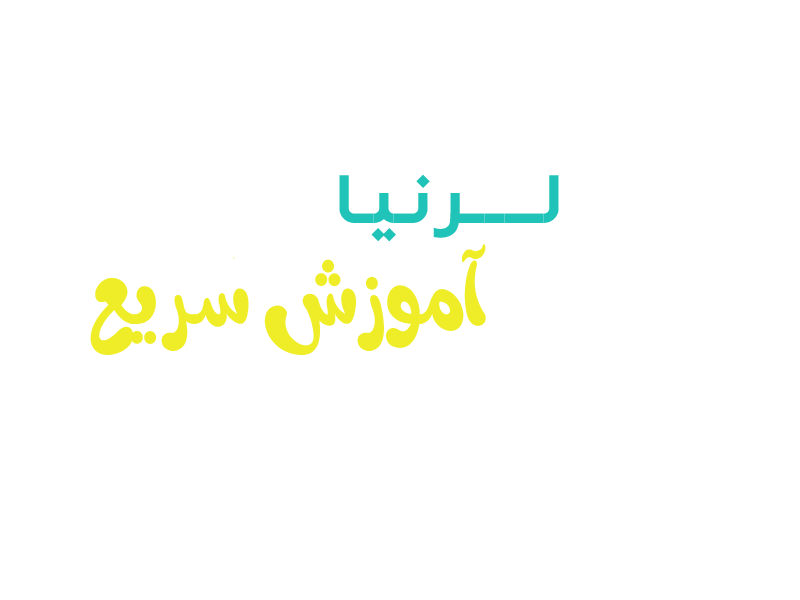
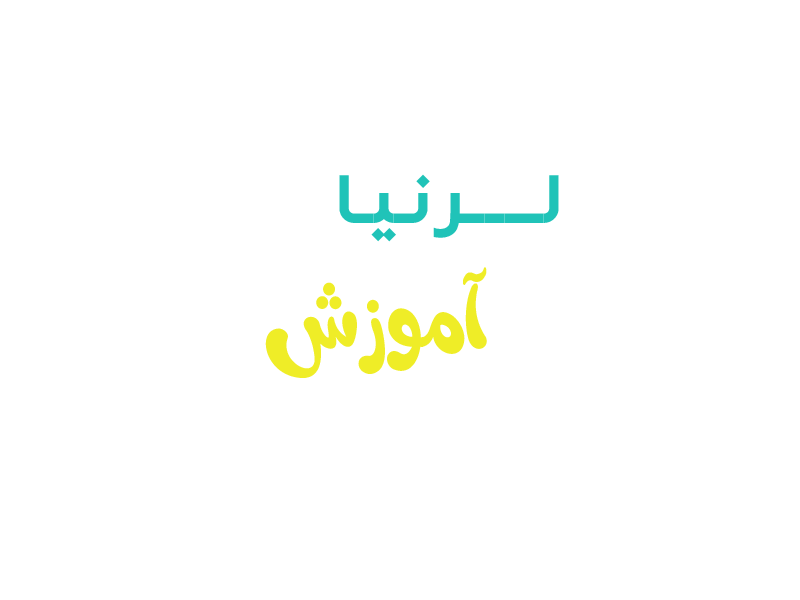
ver 2.4

Changed region(s): [[0.0938, 0.42, 0.625, 0.63]]

diff --git a/public/css/site/argon.css b/public/css/site/argon.css
@@ -17226,7 +17226,7 @@ textarea[resize='horizontal']
 {
     color: #8898aa;
     border-color: rgba(50, 151, 211, .25);
-    background-color: #fff;
+    background-color: #20C5BA;
 }
 
 .focused .form-control

diff --git a/resources/views/site/post/index.blade.php b/resources/views/site/post/index.blade.php
@@ -237,11 +237,11 @@
 
               <span class="post-auhor-date">
               <span class="text-muted">
-              <img src="http://127.0.0.1:8000/images/Template/user.svg" alt="Thumbnail Image" height="20px" width="20px">
+              <img src="${baseUrl+ "/images/Template/user.svg"}"  alt="Thumbnail Image" height="20px" width="20px">
               ${writer.name}
                 </span>
               <span class="text-muted"> | 
-              <img src="http://127.0.0.1:8000/images/Template/calendar.svg" alt="Thumbnail Image" height="20px" width="20px">
+              <img src="${baseUrl+ "/images/Template/calendar.svg"}" alt="Thumbnail Image" height="20px" width="20px">
 
               ${json.extras.create_at}
               </span>
@@ -249,7 +249,7 @@
               </span>
 
              <span class="text-muted"> |
-             <img src="http://127.0.0.1:8000/images/Template/clock.svg" alt="Thumbnail Image" height="20px" width="20px">
+             <img src=${baseUrl+ "/images/Template/clock.svg"}" alt="Thumbnail Image" height="20px" width="20px">
 
              ${json.extras.readtime} دقیقه
                </span>  
@@ -282,9 +282,9 @@
                                               json = JSON.stringify(json);
                                               json = JSON.parse(json);
 
-                                              if(json.next_page_url != null)
+                                              if(json.first_page_url != null)
                                                 {
-                                                  page_url =  json.next_page_url;
+                                                  page_url =  json.first_page_url;
                                                 }
                                                 else
                                                 {
@@ -292,6 +292,8 @@
                                                   $("#btn_more").css("display","none");
                                                        return 0;
                                                 }
+
+
                                             })
 
                                             first_run = 1 ;
@@ -313,9 +315,9 @@
                                             
                                               json = JSON.parse(json);
 
-                                              if(json.next_page_url != null)
+                                              if(json.first_page_url != null)
                                                 {
-                                                  page_url =  json.next_page_url;
+                                                  page_url =  json.first_page_url;
                                                 }
                                                 else
                                                 {

diff --git a/resources/views/admin/Layouts/nav.blade.php b/resources/views/admin/Layouts/nav.blade.php
@@ -10,7 +10,7 @@
        <!--span class="navbar-toggler-icon"></span-->
         </button>
         <a href="{{route('index')}}">
-          <img src="{{ asset('images/Template/logo.svg') }}" alt="Thumbnail Image" style="height:75px !important" height="100px !important" width="80px"> 
+          <img src="{{ asset('images/Template/logo.svg') }}" alt="Thumbnail Image" style="height:60px !important" height="100px !important" width="80px"> 
        </a> 
       </div>
       <div class="collapse navbar-collapse" id="navbar-default">
@@ -35,8 +35,8 @@
 <li class="nav-item">
   <a class="nav-link" href="{{route('product.index')}}"   rel="tooltip" title="" data-placement="bottom"
   data-original-title="به زودی">
-  <img src="{{ asset('images/Template/clock.svg') }}" alt="Thumbnail Image" height="40px" width="40px">
-  آموزش سریع 
+  <img src="{{ asset('images/Template/learn.svg') }}" alt="Thumbnail Image" height="40px" width="40px">
+  آموزش  
   </a>
 </li>
 
@@ -76,11 +76,11 @@
         <ul class="navbar-nav col-md-3 col-10 "  dir="ltr" style="margin-top:15px" >
 <!-- serach box site -->
 
-<form class="navbar-form" dir="rtl" action="{{route('search.index')}}" >
+<form class="navbar-form" style="margin-bottom:0px" dir="rtl" action="{{route('search.index')}}" >
               
         <div class="row">
 
-             <div class="col-md-11 col-11" style="padding-left:0px;padding-right:0px">
+             <div class="col-md-12 col-11" style="padding-left:0px;padding-right:0px">
                 <div class="form-group">
 
                       <input type="hidden"  name="type_search" value="{{Request::segment(1)}}" 
@@ -89,25 +89,11 @@
                       <div class="input-group">
                           <input type="text"  name="content_search" 
                           class="form-control form-control-alternative" placeholder="جستجو...">
-                            <div class="input-group-append">
-                            <span class="input-group-text">
-                            <input type="submit" hidden="true" />
-                          <img src="{{ asset('images/Template/search.svg') }}" alt="Thumbnail Image" height="20px" width="20px"></span>
-                         
-                           </div>
-
+                          <button class="input-group-text" type="submit" style="font-size:0.8rem !important">بگرد</button>
                       </div>
-
                 </div>
-             </div>        
-
-               <div class="col-md-1 col-1"> 
-               <div class="form-group">
-
-                    
-                      </div>
-                      </div>
-              </div>
+             </div>         
+         </div>
 
         
         </form>

diff --git a/resources/views/user/Layouts/nav.blade.php b/resources/views/user/Layouts/nav.blade.php
@@ -10,7 +10,7 @@
        <!--span class="navbar-toggler-icon"></span-->
         </button>
         <a href="{{route('index')}}">
-          <img src="{{ asset('images/Template/logo.svg') }}" alt="Thumbnail Image" style="height:75px !important" height="100px !important" width="80px"> 
+          <img src="{{ asset('images/Template/logo.svg') }}" alt="Thumbnail Image" style="height:60px !important" height="100px !important" width="80px"> 
        </a> 
       </div>
       <div class="collapse navbar-collapse" id="navbar-default">
@@ -35,8 +35,8 @@
 <li class="nav-item">
   <a class="nav-link" href="{{route('product.index')}}"   rel="tooltip" title="" data-placement="bottom"
   data-original-title="به زودی">
-  <img src="{{ asset('images/Template/clock.svg') }}" alt="Thumbnail Image" height="40px" width="40px">
-  آموزش سریع 
+  <img src="{{ asset('images/Template/learn.svg') }}" alt="Thumbnail Image" height="40px" width="40px">
+  آموزش  
   </a>
 </li>
 
@@ -75,11 +75,11 @@
         <ul class="navbar-nav col-md-3 col-10 "  dir="ltr" style="margin-top:15px" >
 <!-- serach box site -->
 
-<form class="navbar-form" dir="rtl" action="{{route('search.index')}}" >
+<form class="navbar-form" style="margin-bottom:0px" dir="rtl" action="{{route('search.index')}}" >
               
         <div class="row">
 
-             <div class="col-md-11 col-11" style="padding-left:0px;padding-right:0px">
+             <div class="col-md-12 col-11" style="padding-left:0px;padding-right:0px">
                 <div class="form-group">
 
                       <input type="hidden"  name="type_search" value="{{Request::segment(1)}}" 
@@ -88,25 +88,13 @@
                       <div class="input-group">
                           <input type="text"  name="content_search" 
                           class="form-control form-control-alternative" placeholder="جستجو...">
-                            <div class="input-group-append">
-                            <span class="input-group-text">
-                            <input type="submit" hidden="true" />
-                          <img src="{{ asset('images/Template/search.svg') }}" alt="Thumbnail Image" height="20px" width="20px"></span>
-                         
-                           </div>
+
+                          <button class="input-group-text" type="submit" style="font-size:0.8rem !important">بگرد</button>
 
                       </div>
-
                 </div>
              </div>        
-
-               <div class="col-md-1 col-1"> 
-               <div class="form-group">
-
-                    
-                      </div>
-                      </div>
-              </div>
+         </div>
 
         
         </form>

diff --git a/resources/views/site/Layouts/nav.blade.php b/resources/views/site/Layouts/nav.blade.php
@@ -10,7 +10,7 @@
        <!--span class="navbar-toggler-icon"></span-->
         </button>
         <a href="{{route('index')}}">
-          <img src="{{ asset('images/Template/logo.svg') }}" alt="Thumbnail Image" style="height:75px !important"
+          <img src="{{ asset('images/Template/logo.svg') }}" alt="Thumbnail Image" style="height:60px !important"
            height="100px !important" width="100px"> 
        </a> 
       </div>
@@ -37,8 +37,8 @@
 <li class="nav-item">
   <a class="nav-link" href="{{route('product.index')}}"   rel="tooltip" title="" data-placement="bottom"
   data-original-title="به زودی">
-  <img src="{{ asset('images/Template/clock.svg') }}" alt="Thumbnail Image" height="40px" width="40px">
-  آموزش سریع 
+  <img src="{{ asset('images/Template/learn.svg') }}" alt="Thumbnail Image" height="40px" width="40px">
+  آموزش  
   </a>
 </li>
 
@@ -78,11 +78,11 @@
  <ul class="navbar-nav col-md-3 col-10 "  dir="ltr" style="margin-top:15px" >
 <!-- serach box site -->
 
-<form class="navbar-form" dir="rtl" action="{{route('search.index')}}" >
+<form class="navbar-form" style="margin-bottom:0px" dir="rtl" action="{{route('search.index')}}" >
               
         <div class="row">
 
-             <div class="col-md-11 col-11" style="padding-left:0px;padding-right:0px">
+             <div class="col-md-12 col-11" style="padding-left:0px;padding-right:0px">
                 <div class="form-group">
 
                       <input type="hidden"  name="type_search" value="{{Request::segment(1)}}" 
@@ -91,25 +91,13 @@
                       <div class="input-group">
                           <input type="text"  name="content_search" 
                           class="form-control form-control-alternative" placeholder="جستجو...">
-                            <div class="input-group-append">
-                            <span class="input-group-text">
-                            <input type="submit" hidden="true" />
-                          <img src="{{ asset('images/Template/search.svg') }}" alt="Thumbnail Image" height="20px" width="20px"></span>
-                         
-                           </div>
+
+                          <button class="input-group-text" type="submit" style="font-size:0.8rem !important">بگرد</button>
 
                       </div>
-
                 </div>
              </div>        
-
-               <div class="col-md-1 col-1"> 
-               <div class="form-group">
-
-                    
-                      </div>
-                      </div>
-              </div>
+        </div>
 
         
         </form>

diff --git a/resources/views/admin/Layouts/footer.blade.php b/resources/views/admin/Layouts/footer.blade.php
@@ -8,8 +8,8 @@
               <div class="row">
               <a class="nav-link col-md-3 col-3" href="{{route('product.index')}}"  rel="tooltip" title="" data-placement="bottom"
             data-original-title="به زودی">
-            <img src="{{ asset('images/Template/clock.svg') }}" alt="Thumbnail Image" height="30px" width="30px">
-             آموزش سریع
+            <img src="{{ asset('images/Template/learn.svg') }}" alt="Thumbnail Image" height="30px" width="30px">
+             آموزش 
             </a>
             <a class="nav-link col-md-3 col-3"  href="{{route('post.index')}}" rel="tooltip" title="" data-placement="bottom"
             >

diff --git a/resources/views/site/Layouts/footer.blade.php b/resources/views/site/Layouts/footer.blade.php
@@ -8,8 +8,8 @@
               <div class="row">
               <a class="nav-link col-md-3 col-3" href="{{route('product.index')}}"  rel="tooltip" title="" data-placement="bottom"
             data-original-title="به زودی">
-            <img src="{{ asset('images/Template/clock.svg') }}" alt="Thumbnail Image" height="30px" width="30px">
-             آموزش سریع
+            <img src="{{ asset('images/Template/learn.svg') }}" alt="Thumbnail Image" height="30px" width="30px">
+             آموزش 
             </a>
             <a class="nav-link col-md-3 col-3"  href="{{route('post.index')}}" rel="tooltip" title="" data-placement="bottom"
             >

diff --git a/resources/views/user/Layouts/footer.blade.php b/resources/views/user/Layouts/footer.blade.php
@@ -8,8 +8,8 @@
               <div class="row">
               <a class="nav-link col-md-3 col-3" href="{{route('product.index')}}"  rel="tooltip" title="" data-placement="bottom"
             data-original-title="به زودی">
-            <img src="{{ asset('images/Template/clock.svg') }}" alt="Thumbnail Image" height="30px" width="30px">
-             آموزش سریع
+            <img src="{{ asset('images/Template/learn.svg') }}" alt="Thumbnail Image" height="30px" width="30px">
+             آموزش 
             </a>
             <a class="nav-link col-md-3 col-3"  href="{{route('post.index')}}" rel="tooltip" title="" data-placement="bottom"
             >

diff --git a/app/Http/Controllers/PostController.php b/app/Http/Controllers/PostController.php
@@ -39,7 +39,7 @@ class PostController extends Controller
         $category = Category::where('name', $name)->first();
         $pk_categories = $category['pk_categories'];
         $recent_post = Post::where('pk_categories', $pk_categories)->where('status', 'انتشار')->get()->take(6);
-        $categor9yOfPage =   $pk_categories;
+        $categoryOfPage =   $pk_categories;
        
         return view('site.post.index',compact('recent_post','categoryOfPage'));
     }

diff --git a/app/Console/Commands/CreateDirectory_CloudStorage.php b/app/Console/Commands/CreateDirectory_CloudStorage.php
@@ -40,7 +40,7 @@ class CreateDirectory_CloudStorage extends Command
     public function handle()
     {
         $Newdirectory = $this->argument('Newdirectory');
-        Storage::makeDirectory( $Newdirectory);
+        Storage::makeDirectory($Newdirectory);
         return "Directory Create Success";
     }
 }
